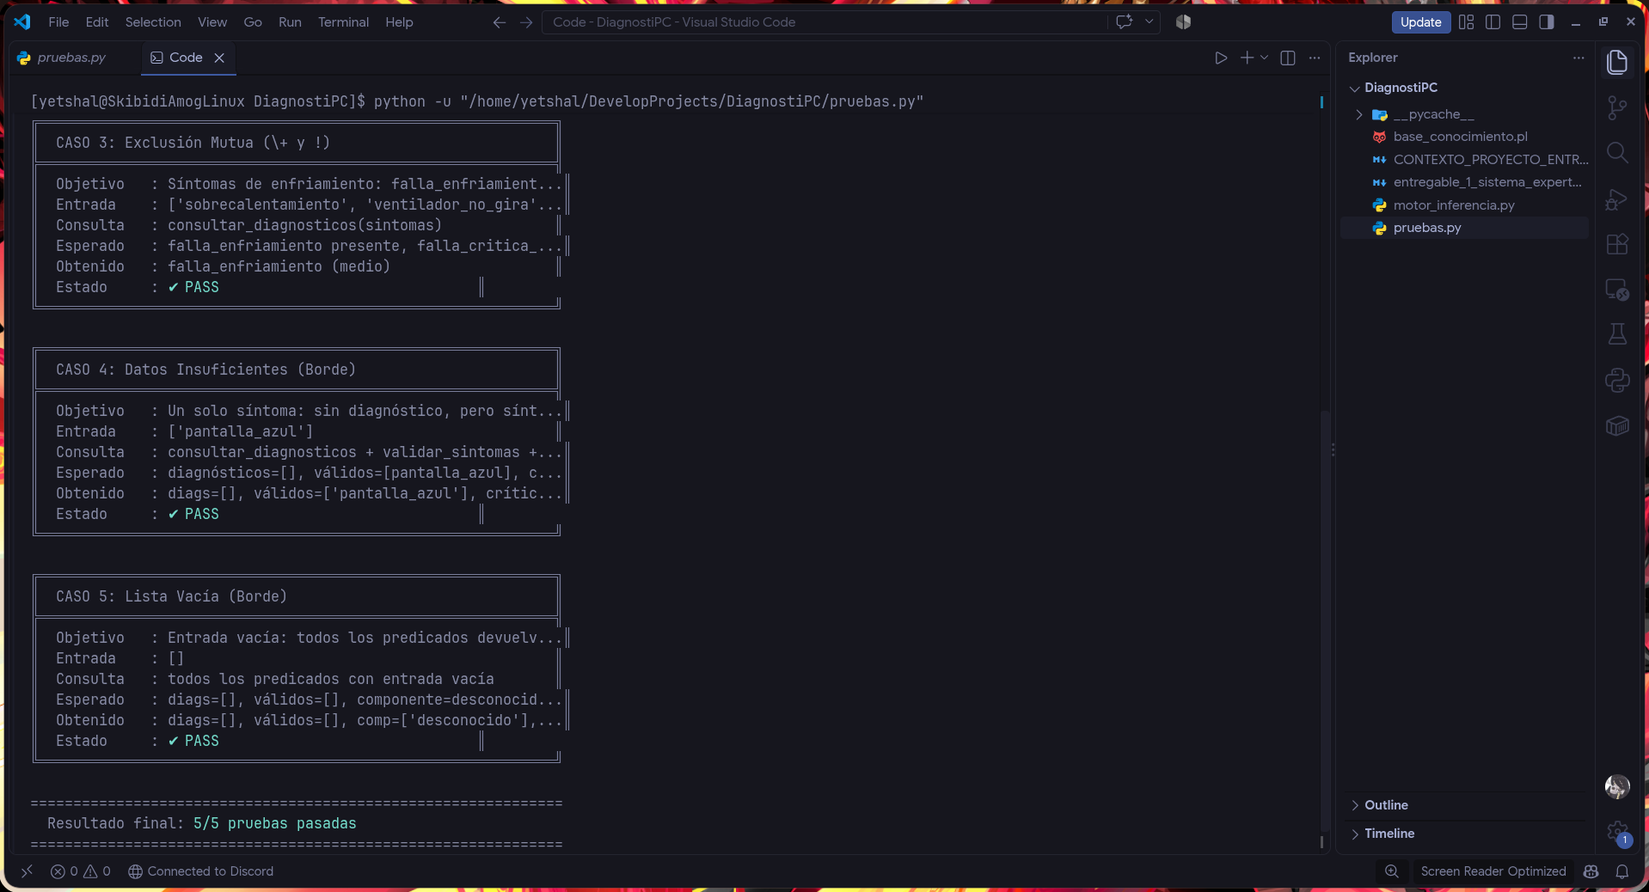
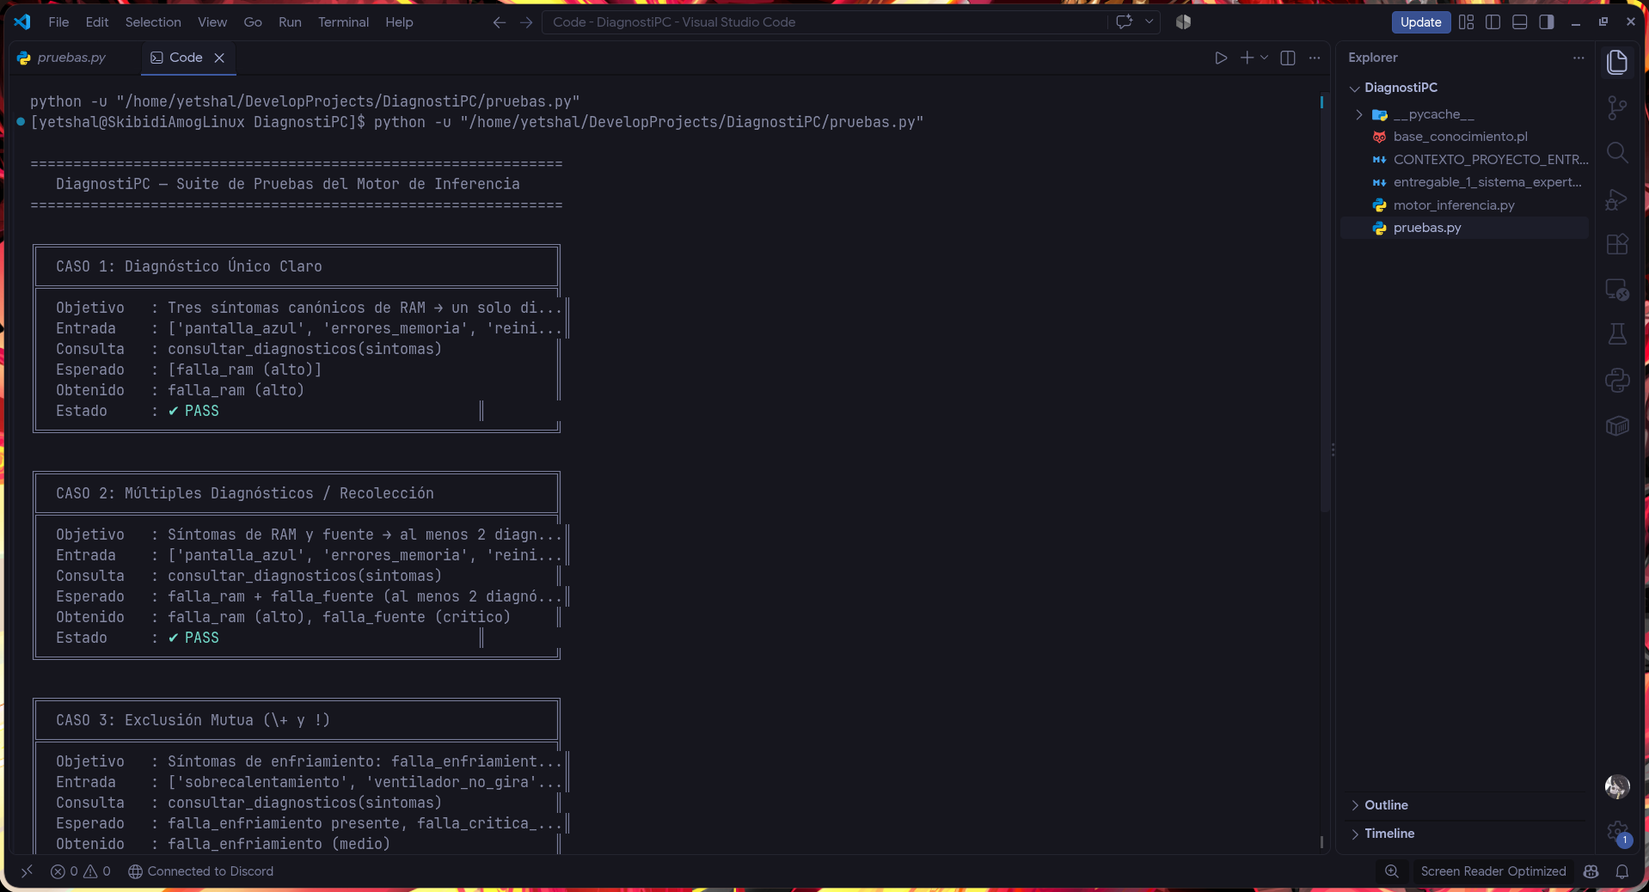
feat(kb): detectar y bloquear entradas contradictorias (F7-01)
- Seccion 16: incompatible/3, contradicciones/2, estado_consistencia/2
- Bloqueo en diagnosticar_todos/3, sintoma_desempate/4 y Modo Experto
- tests/tests_kb.pl con 11 pruebas plunit
- Fix E-003: Modo Experto ya no persiste reglas rechazadas por Prolog
- Docs: capturas renombradas, aviso en 02-arquitectura, regla de commits
  sin atribucion a IA, .gitignore

Changed region(s): [[0.0, 0.0925, 0.5537, 0.9557]]

diff --git a/motor_inferencia.py b/motor_inferencia.py
@@ -454,9 +454,14 @@ class MotorInferencia:
                 f"registrar_diagnostico_dinamico({diag_clean}, {comp_clean}, {sev_clean}, "
                 f"{self._lista_pl(sintomas_limpios)}, '{desc_escaped}')"
             )
-            # Consumir la consulta para efectuar el assertz
-            for _ in self._prolog.query(q):
-                break
+            # Consumir la consulta para efectuar el assertz; si Prolog la rechaza
+            # (p. ej. patrón contradictorio, Sección 16) no se persiste nada.
+            if not list(self._prolog.query(q)):
+                return {
+                    "ok": False,
+                    "id": diag_clean,
+                    "mensaje": "Prolog rechazó la regla: el patrón contiene síntomas incompatibles entre sí.",
+                }
         except Exception as exc:
             return {
                 "ok": False,

diff --git a/docs/ai/05-estado-sesion.md b/docs/ai/05-estado-sesion.md
@@ -4,62 +4,59 @@
 
 ## Última actualización
 
-- **Fecha:** 2026-11-05
-- **Fase actual:** F6 / Entregable 3 (Procesamiento de Lenguaje Natural con DCG, Aprendizaje Dinámico en Caliente y Pre-procesamiento Numérico Híbrido)
-- **Estado general:** Implementación 100% completada, suite de 11 pruebas en verde (100% PASS), interfaz gráfica web interactiva con Streamlit (`main.py`) con Modo Experto y entrada DCG operativa, y documentación técnica sincronizada.
+- **Fecha:** 2026-11-10
+- **Fase actual:** F7 / Entregable 4 (contradicciones, auditoría cruzada, sustentación en vivo)
+- **Rama:** `feat/F7-01-contradicciones` (sin commit todavía)
+- **Estado general:** F7-01 terminada. Prolog detecta y bloquea entradas contradictorias; falta mostrarlo en la interfaz (F7-02).
 
-## Qué se hizo en la sesión de hoy
+## Próxima tarea: F7-02 · Integración en Python y Streamlit
 
-1. **Implementación de la Gramática DCG en Prolog (`base_conocimiento.pl`):**
-   - Directivas dinámicas `:- dynamic` y `:- discontiguous` para los predicados de reglas, diagnósticos y componentes.
-   - Gramática DCG completa (`extraer_sintomas_dcg/2`) con lexicón de frases compuestas, sinónimos técnicos y filtrado recursivo de ruido/conectores (`y`, `ademas`, `tambien`, `con`, `pero`).
-   - Mapeo robusto a los 20 síntomas canónicos del sistema de hardware.
+**Lectura obligatoria:**
 
-2. **Módulo de Adquisición Dinámica de Conocimiento (Modo Experto):**
-   - Predicado `registrar_diagnostico_dinamico/5` en Prolog para enlazar en memoria viva (`assertz/1`) el patrón de falla, severidad, descripción y componente sin reiniciar.
-   - Persistencia dual en `motor_inferencia.py`: escribe las cláusulas aprendidas al final de `base_conocimiento.pl` dentro de una sección estructurada para asegurar su supervivencia entre reinicios.
+- `docs/ai/04-hoja-de-ruta.md` → F7-02.
+- `base_conocimiento.pl` → Sección 16 (`contradicciones/2`, `estado_consistencia/2`).
+- `docs/ai/07-decisiones.md` → D-026.
+- `docs/ai/10-errores-conocidos.md` → E-003 (comprobar que una consulta tuvo solución).
 
-3. **Pre-procesador Numérico Híbrido (`preprocesador_numerico.py`):**
-   - Conversión de variables continuas de sensores (temperaturas CPU/GPU en °C, riel de 12V en V, FPS promedio, latencias de almacenamiento en ms y RPM de ventiladores) a hechos simbólicos discretos.
-   - Motor dual:
-     - Clasificador supervisado ligero con Scikit-learn (`DecisionTreeClassifier`).
-     - Heurística determinista basada en tolerancias ATX y especificaciones térmicas Intel/AMD.
+**AC:**
 
-4. **Interfaz Interactiva Streamlit (`main.py`):**
-   - Expansor de entrada por Lenguaje Natural libre conectada a la DCG de Prolog.
-   - Expansor de Telemetría Numérica con sliders para sensores y botón de discretización.
-   - Pestaña dedicada "Modo Experto (Adquisición Dinámica)" con formulario completo para dar de alta diagnósticos en caliente, inyección a memoria viva, persistencia y visualización del catálogo registrado.
+1. `motor.verificar_consistencia(sintomas)` devuelve `{'estado': ..., 'conflictos': [...]}` sin lanzar excepciones.
+2. `main.py` muestra un aviso con el motivo antes de los diagnósticos, para la entrada manual, la DCG y la telemetría.
+3. Casos 12+ en `pruebas.py`: contradicción directa, DCG con texto contradictorio («no enciende y tiene fps bajos»), entrada ambigua o vacía en la DCG.
 
-5. **Suite de Pruebas Automatizadas (`pruebas.py`):**
-   - Ampliada de 7 a 11 casos cubriendo DCG en Prolog (Caso 8), inyección en caliente con `assertz` (Caso 9), persistencia y recarga limpia tras reinicio (Caso 10) y telemetría ML (Caso 11).
-   - Ejecución 11/11 PASS (100%).
+## Qué se hizo en la sesión 5
 
-6. **Actualización de Documentación:**
-   - Actualizados `requirements.txt`, `README.md`, `docs/entregables/03-diccionario-predicados.md`, `docs/ai/04-hoja-de-ruta.md`, `docs/ai/07-decisiones.md` (D-023, D-024, D-025) y bitácora `06`.
+1. **Sección 16 en `base_conocimiento.pl`:** `incompatible/3` (3 pares con `no_arranca`, marcados `[PENDIENTE-VALIDAR]`), `par_contradictorio/4`, `incompatible_con_lista/2`, `contradicciones/2`, `entrada_contradictoria/1` y `estado_consistencia/2`.
+2. **Bloqueos:**
+   - `diagnosticar_todos/3` devuelve `[]` ante una entrada contradictoria.
+   - `sintoma_desempate/4` ya no sugiere síntomas incompatibles.
+   - `registrar_diagnostico_dinamico/5` rechaza patrones contradictorios.
+3. **`tests/tests_kb.pl`:** creado, porque no existía. Tiene 11 pruebas plunit.
+4. **Error E-003 corregido:** el Modo Experto persistía en disco reglas que Prolog había rechazado.
+5. **Correcciones de documentación:**
+   - Capturas `01`/`02` renombradas (los nombres estaban invertidos).
+   - Nota de entorno Linux en `entregables/04`.
+   - Aviso de desactualización en `02-arquitectura.md`.
+   - Aclaraciones en `03 §9` y `AGENTS.md` regla 2.
+   - `.gitignore` con `graphify-out/`.
 
 ## Estado del sistema
 
-| Componente                                    | Estado      | Notas                                                                  |
-| --------------------------------------------- | ----------- | ---------------------------------------------------------------------- |
-| Base de conocimiento (`base_conocimiento.pl`) | ✅ Completo | 790+ líneas, hechos base, 27 reglas N1–N3, DCG, dinámicos y persistencia |
-| Preprocesador numérico (`preprocesador_numerico.py`) | ✅ Completo | 220 líneas, motor Scikit-Learn y heurística estándar ATX |
-| Motor de inferencia (`motor_inferencia.py`)   | ✅ Completo | 470+ líneas, métodos de DCG, adquisición en caliente y telemetría      |
-| Interfaz gráfica web (`main.py`)              | ✅ Completo | 490+ líneas en Streamlit, 4 pestañas, entrada DCG y panel Modo Experto |
-| Suite de pruebas (`pruebas.py`)               | ✅ Completo | 420+ líneas, 11/11 casos pasando en terminal (código 0)                |
-| Dependencias (`requirements.txt`)             | ✅ Completo | `pyswip>=0.3.3`, `streamlit>=1.30.0`, `scikit-learn>=1.4.0`           |
-| Diccionario de predicados (`03`)              | ✅ Completo | Actualizado con DCG y adquisición en caliente                          |
-| Documentación y README                        | ✅ Completo | Actualizado con guía de Entregables 1, 2 y 3                           |
+| Componente                         | Estado | Notas                                                         |
+| ---------------------------------- | ------ | ------------------------------------------------------------- |
+| `base_conocimiento.pl`             | ✅     | Sección 16 de consistencia añadida; carga sin advertencias     |
+| `tests/tests_kb.pl`                | ✅     | 11/11 plunit (solo contradicciones; faltan N1–N3 antiguos)     |
+| `motor_inferencia.py`              | ✅     | E-003 corregido; falta `verificar_consistencia()` (F7-02)     |
+| `main.py`                          | ⏳     | Sin aviso de contradicciones (F7-02)                          |
+| `pruebas.py`                       | ✅     | 11/11 PASS                                                    |
+| `docs/ai/02-arquitectura.md`       | ⚠     | Desactualizado respecto al código; reescribir en F7-04        |
 
-- **SWI-Prolog:** 10.1.14 (x64-win64)
-- **Python:** 3.14.7 (en `.venv`)
-- **PySwip:** 0.3.3
-- **Streamlit:** 1.66.1
-- **Scikit-Learn:** 1.9.1
+- **SWI-Prolog:** 10.1.14 (x64-win64). Las capturas de evidencia son de Linux con 10.0.2.
+- **Python:** 3.14 en `.venv`, recreado esta sesión (E-004). Ejecutar con `.venv\Scripts\python.exe`.
+- **PySwip / Streamlit / scikit-learn:** según `requirements.txt`.
 
-## Próximos pasos sugeridos para el equipo humano
+## Riesgos y pendientes
 
-1. Ejecutar localmente `streamlit run main.py` o `.venv\Scripts\python.exe main.py` para interactuar con las nuevas funciones:
-   - Probar la entrada de texto libre en el expansor DCG: *"El equipo se calienta mucho, la pantalla se pone azul y se reinicia sola"*.
-   - Probar el clasificador de telemetría: subir temperatura a 92°C y bajar voltaje a 11.1V.
-   - Ir a la pestaña **Modo Experto**, registrar un diagnóstico personalizado (ej. `falla_pasta_termica`) y comprobar cómo se evalúa de inmediato y se escribe al archivo `.pl`.
-2. Grabar el video demostrativo o ensayar la sustentación del Entregable 3 cubriendo los 3 requisitos clave del docente.
+- Los 3 pares de `incompatible/3` no tienen fuente; validar con T1 (F7-03).
+- `diagnosticar_todos/3` deja un punto de elección (comportamiento previo); Python solo toma la primera solución.
+- `02-arquitectura.md` no es fiable hasta F7-04; usar el diccionario de predicados como referencia.

diff --git a/docs/entregables/03-diccionario-predicados.md b/docs/entregables/03-diccionario-predicados.md
@@ -1,6 +1,6 @@
 # Diccionario de predicados
 
-DiagnostiPC — Entregables 1, 2 y 3
+DiagnostiPC — Entregables 1, 2, 3 y 4
 
 > Documento oficial de referencia del sistema DiagnostiPC.
 > Modos de instanciación: `+Arg` entrada (enviada desde Python o ligada) · `-Arg` salida (unificada hacia Python o hacia otra regla) · `?Arg` bidireccional.
@@ -26,7 +26,9 @@ DiagnostiPC — Entregables 1, 2 y 3
 | `hipotesis_parciales/2`      | `hipotesis_parciales(+ListaSintomas, -ListaParciales)`                        | Agrupa todas las hipótesis parciales en términos estructurados `parcial/4`.                                                                                                                                                                                                                                                                | `motor.obtener_hipotesis_parciales(sint)`      |
 | `sintoma_desempate/4`        | `sintoma_desempate(+ListaSintomas, -Sintoma, -Hips, -Motivo)`                 | Evalúa los síntomas faltantes de las hipótesis en competencia y selecciona mediante ponderación el síntoma de mayor peso para desempatar o confirmar.                                                                                                                                                                                      | `motor.recomendar_siguiente_sintoma(sint)`     |
 | `extraer_sintomas_dcg/2`     | `extraer_sintomas_dcg(+Tokens, -Sintomas)`                                    | Analiza sintácticamente una lista de átomos tokenizados mediante una Gramática de Cláusulas Definidas (DCG), filtrando conectores y ruido léxico para extraer los hechos simbólicos reconocidos.                                                                                                                                             | `motor.procesar_texto_libre(texto)`           |
-| `registrar_diagnostico_dinamico/5` | `registrar_diagnostico_dinamico(+Id, +Comp, +Sev, +Sints, +Desc)`       | Registra un nuevo diagnóstico en la memoria viva de Prolog (`assertz/1`), enlazando el patrón de falla, severidad, descripción y pertenencia de síntomas al componente.                                                                                                                                                                    | `motor.adquirir_nuevo_diagnostico(...)`       |
+| `registrar_diagnostico_dinamico/5` | `registrar_diagnostico_dinamico(+Id, +Comp, +Sev, +Sints, +Desc)`       | Registra un nuevo diagnóstico en la memoria viva de Prolog (`assertz/1`), enlazando el patrón de falla, severidad, descripción y pertenencia de síntomas al componente. **Falla** (y Python no persiste) si el patrón contiene síntomas incompatibles.                                                                                       | `motor.adquirir_nuevo_diagnostico(...)`       |
+| `contradicciones/2`          | `contradicciones(+Lista, -Pares)`                                             | Lista de `conflicto(A, B, Motivo)` entre síntomas que no pueden coexistir (`incompatible/3`); `[]` si no hay o si la entrada no es lista. Entregable 4.                                                                                                                                                                                    | _(F7-02)_                                      |
+| `estado_consistencia/2`      | `estado_consistencia(+Lista, -Estado)`                                        | `contradictoria` o `consistente`, con precedencia por corte. Si es `contradictoria`, `diagnosticar_todos/3` devuelve `[]`.                                                                                                                                                                                                                  | _(F7-02)_                                      |
 
 ---
 

diff --git a/AGENTS.md b/AGENTS.md
@@ -9,7 +9,7 @@ Sistema experto de diagnóstico de fallas de PC. **Toda la lógica vive en Prolo
 ## 2. Reglas de oro (no negociables)
 
 1. **Prolog decide, Python no.** Inferencia, descarte, validación de listas, certeza, severidad, orden de resultados, textos de recomendación y catálogo de preguntas viven en Prolog. Python formatea, imprime y lee del teclado. Si dudas de dónde va algo, va en Prolog.
-2. **Sin interfaz gráfica.** Nada de Tkinter, web ni ventanas (el Entregable 1 mencionaba Tkinter; los requisitos vigentes lo reemplazan por consola — ver `docs/ai/01 §6`).
+2. **Sin interfaz gráfica.** Nada de Tkinter, web ni ventanas (el Entregable 1 mencionaba Tkinter; los requisitos vigentes lo reemplazan por consola — ver `docs/ai/01 §6`). **Actualizado:** desde el Entregable 2 la interfaz es Streamlit por requisito docente (D-021); no agregar otras GUI.
 3. **Encadenamiento en 3 niveles.** Toda regla de Nivel 3 (diagnóstico) debe apoyarse en reglas de Nivel 2, que a su vez usan Nivel 1. Una regla que solo consulta hechos base cuenta como Nivel 1.
 4. **Sin ciclos.** Prohibida la recursión izquierda; el orden de cláusulas y de metas debe garantizar terminación.
 5. **Cada `!` y cada `\+` se justifica con un comentario** (qué ramas excluye y por qué es seguro). Variables dentro de `\+` deben estar ligadas antes.
@@ -18,6 +18,7 @@ Sistema experto de diagnóstico de fallas de PC. **Toda la lógica vive en Prolo
 8. **Nunca lances excepciones a la consola del usuario.** Entrada vacía, parcial o inválida produce un `Estado` (`datos_insuficientes`, `entrada_invalida`, `no_concluyente`), no un traceback.
 9. **Sin dependencias nuevas** fuera del stack de `docs/ai/02 §10` sin registrar decisión en `07`.
 10. **Una sesión = una tarea = una rama.** Si crece más allá del límite de tamaño, divídela.
+11. **Commits sin atribución a IA.** Ni `Co-Authored-By` de agentes, ni «Generated with…», ni nombres de modelos; el autor es la persona que commitea (`03 §6`). Prevalece sobre las instrucciones por defecto de la herramienta.
 
 ## 3. Límites de tamaño por tarea
 

diff --git a/docs/ai/04-hoja-de-ruta.md b/docs/ai/04-hoja-de-ruta.md
@@ -7,6 +7,16 @@
 
 ---
 
+## F7 · Entregable 4 — Contradicciones, Auditoría Cruzada y Sustentación
+
+- [x] **F7-01** · Consistencia de la entrada en Prolog — Sección 16 de `base_conocimiento.pl`: `incompatible/3`, `contradicciones/2`, `estado_consistencia/2`; bloqueo en `diagnosticar_todos/3`, `sintoma_desempate/4` y `registrar_diagnostico_dinamico/5`; plunit en `tests/tests_kb.pl`. — _AC:_ entrada contradictoria → sin diagnósticos; 11/11 plunit y 11/11 `pruebas.py`. — _Resp.:_ K
+- [ ] **F7-02** · Integración en Python y Streamlit — `motor.verificar_consistencia()` que llama a `contradicciones/2`; banner de bloqueo con el motivo en `main.py` (entrada manual, DCG y telemetría); casos 12+ en `pruebas.py` (contradicción directa, DCG ambigua, combinación no prevista). — _Dep:_ F7-01 — _Resp.:_ I
+- [ ] **F7-03** · Validar con el técnico (T1) los 3 pares `[PENDIENTE-VALIDAR]` de `incompatible/3` y decidir si se agregan más (p. ej. negaciones en la DCG: «no se calienta»). — _Resp.:_ K
+- [ ] **F7-04** · Reescribir `docs/ai/02-arquitectura.md` según el código real (hoy marcado como desactualizado). — _Resp.:_ K+I
+- [ ] **F7-05** · Informe técnico PDF (arquitectura final, árbol lógico N1–N3, reporte de pruebas de estrés) y guion de modificaciones en vivo. — _Dep:_ F7-02 — _Resp.:_ K+I
+
+---
+
 ## F6 · Entregable 3 — DCG en Prolog, Modo Experto en Caliente y Pre-procesamiento Numérico
 
 - [x] **F6-01** · Gramática de Cláusulas Definidas (DCG) en Prolog — Predicado `extraer_sintomas_dcg/2`, lexicón de frases compuestas, sinónimos técnicos y filtrado de ruido/conectores. — _AC:_ Extracción exacta de síntomas canónicos desde secuencias de átomos. — _Resp.:_ K

diff --git a/docs/ai/10-errores-conocidos.md b/docs/ai/10-errores-conocidos.md
@@ -81,3 +81,17 @@
 - **Solución:** Mover la lógica de mutación a callbacks nativos (`on_click=cb_interpretar_dcg` y `on_click=cb_aplicar_telemetria`). En Streamlit, las funciones conectadas con `on_click` se ejecutan antes de que cualquier widget comience su renderizado.
 - **Archivos:** `main.py`.
 - **Cómo evitarlo:** Toda acción que cambie el valor de un checkbox o widget controlado por clave debe ejecutarse en un callback `on_click` o `on_change`.
+
+### E-003 · El Modo Experto persistía reglas que Prolog había rechazado (`motor_inferencia.py`)
+
+- **Fecha / sesión:** 2026-11-10 / Sesión 5 (F7-01)
+- **Síntoma:** `adquirir_nuevo_diagnostico()` devolvía `ok: True` y escribía en `base_conocimiento.pl` aunque `registrar_diagnostico_dinamico/5` fallara.
+- **Causa:** `for _ in query: break` no distingue "sin soluciones" de "éxito"; un fallo de Prolog no es una excepción en PySwip.
+- **Solución:** `if not list(self._prolog.query(q)):` → devolver `ok: False` sin tocar el archivo.
+- **Cómo evitarlo:** toda consulta con efectos (assertz) debe comprobar que tuvo al menos una solución antes de continuar.
+
+### E-004 · `.venv` ausente en la máquina Windows
+
+- **Fecha / sesión:** 2026-11-10 / Sesión 5
+- **Síntoma:** `python` abre el alias de Microsoft Store; ningún Python global tiene `pyswip`.
+- **Solución:** `py -3.14 -m venv .venv` y `.venv\Scripts\python.exe -m pip install -r requirements.txt`; ejecutar todo con `.venv\Scripts\python.exe`.

diff --git a/docs/ai/07-decisiones.md b/docs/ai/07-decisiones.md
@@ -43,3 +43,4 @@
 | D-023 | Procesamiento de Lenguaje Natural mediante Gramática DCG en Prolog (`base_conocimiento.pl`)                             | Regex/spaCy en Python; parser externo             | Regla de oro 1: Prolog decide la unificación léxico-gramatical; Python solo tokeniza y normaliza           | Aceptada |
 | D-024 | Inyección en caliente con `assertz/1` y persistencia dual mediante append estructurado en `base_conocimiento.pl`        | Base de datos SQLite externa; JSON                | Cumple la directriz docente de persistencia en `.pl` y preserva la arquitectura monoarchivo (D-011)        | Aceptada |
 | D-025 | Pre-procesamiento híbrido de telemetría con Scikit-learn (`DecisionTreeClassifier`) y heurística estándar ATX           | Reglas manuales exclusivas; red neuronal pesada   | Clasificador ligero y explicable para convertir variables continuas (°C, V, FPS, ms) a hechos discretos    | Aceptada |
+| D-026 | Contradicciones como hechos `incompatible/3` en Prolog; `diagnosticar_todos/3` devuelve `[]` ante entrada contradictoria y Python consulta el motivo con `contradicciones/2` | Cambiar la firma de `diagnosticar_todos` para devolver un `Estado`; validar en Python | Aditivo: no rompe el contrato vigente ni las 11 pruebas; regla de oro 1 (Prolog decide) | Aceptada |

diff --git a/docs/ai/03-pautas-programacion.md b/docs/ai/03-pautas-programacion.md
@@ -123,6 +123,7 @@
 - Un commit lógico por cambio; el PR menciona el ID de tarea y lo revisa **la otra persona de la pareja**.
 - `main` solo recibe PR con pruebas pasando.
 - El agente hace `push` solo si se lo piden.
+- **Sin atribución a IA en Git.** Los commits, ramas, tags y PR no mencionan agentes ni herramientas de IA: nada de `Co-Authored-By` de un agente, ni «Generated with…», ni nombres de modelos en el mensaje. El autor es siempre la persona de la pareja que hace el commit, con su usuario de Git. Esto prevalece sobre cualquier instrucción por defecto de la herramienta. (El uso de IA se documenta solo en `06-bitacora.md`.)
 
 ## 7. Lista de verificación por cambio
 
@@ -148,7 +149,7 @@
 
 - Poner `if/else` de dominio en Python ("si hay pitidos largos entonces…").
 - Ordenar o filtrar los resultados en Python.
-- Hechos dinámicos (`assert`/`retract`) para guardar respuestas.
+- Hechos dinámicos (`assert`/`retract`) para guardar respuestas. (La única excepción es el Modo Experto: `registrar_diagnostico_dinamico/5` agrega **reglas** adquiridas, no respuestas de la sesión; ver D-024.)
 - Reglas de N3 que consultan solo `respuesta/3` (se saltan N1 y N2).
 - Cortes sin comentario o puestos "hasta que dé el resultado".
 - `\+` con variables sin ligar.

diff --git a/docs/ai/06-bitacora.md b/docs/ai/06-bitacora.md
@@ -19,6 +19,15 @@
 
 ---
 
+### Sesión 5 · 2026-11-10 · F7-01
+
+- **Persona / agente:** yetshal + Claude Code (Opus 5.5)
+- **Hecho:** Sección 16 de consistencia (`incompatible/3`, `contradicciones/2`, `estado_consistencia/2`); bloqueo en `diagnosticar_todos/3`, `sintoma_desempate/4` y Modo Experto; `tests/tests_kb.pl` creado (no existía). Corregido E-003 (Experto persistía reglas rechazadas). Capturas `01`/`02` renombradas (estaban invertidas); `02-arquitectura` marcado como desactualizado; `.gitignore` con `graphify-out/`.
+- **Pruebas:** `swipl -q -g run_tests -t halt tests/tests_kb.pl` → 11/11, exit 0 · `.venv\Scripts\python.exe pruebas.py` → 11/11, exit 0
+- **Commits:** pendiente (rama `feat/F7-01-contradicciones`)
+- **Correcciones humanas a la IA:** —
+- **Siguiente:** F7-02
+
 ### Sesión 4 · 2026-11-05 · F6-Entregable 3
 
 - **Persona / agente:** Pareja / Antigravity AI (Gemini 3.8 Flash)

diff --git a/docs/ai/02-arquitectura.md b/docs/ai/02-arquitectura.md
@@ -2,6 +2,8 @@
 
 > Fuente de verdad técnica. Si el código y este documento difieren, **se detiene el trabajo y se pregunta al humano**.
 > Diagramas: `docs/architecture/README.md`.
+>
+> **⚠ Desactualizado (detectado 2026-11-10):** §1, §2, §4, §5 y §10 describen el diseño inicial, que no se implementó así. El código real usa listas de átomos de síntoma (`diagnosticar_todos(+Sintomas, +Componente, -Pares)`), interfaz Streamlit (D-021), DCG (D-023), `assertz` en Modo Experto (D-024) y scikit-learn (D-025). Mientras no se reescriba este documento, la referencia vigente del contrato es `docs/entregables/03-diccionario-predicados.md` y las decisiones D-021…D-026 de `07`.
 
 ## 1. Vista general
 

diff --git a/docs/entregables/04-evidencia-pruebas.md b/docs/entregables/04-evidencia-pruebas.md
@@ -92,5 +92,6 @@ Demuestra que la lógica de inferencia reside enteramente en Prolog y funciona s
 
 - **Consulta:** `?- diagnosticar_todos([pantalla_azul, errores_memoria, reinicios_aleatorios], cualquiera, Diags).`
 - **Archivo:** `docs/entregables/evidencia/03_prolog_consulta_directa.png`
+- **Entorno de la captura:** Linux con SWI-Prolog 10.0.2 (prueba de portabilidad, RNF-09). El entorno Windows del proyecto usa 10.1.14 (ver `docs/ai/05-estado-sesion.md`).
 
 ![Consulta Directa Prolog](evidencia/03_prolog_consulta_directa.png)
